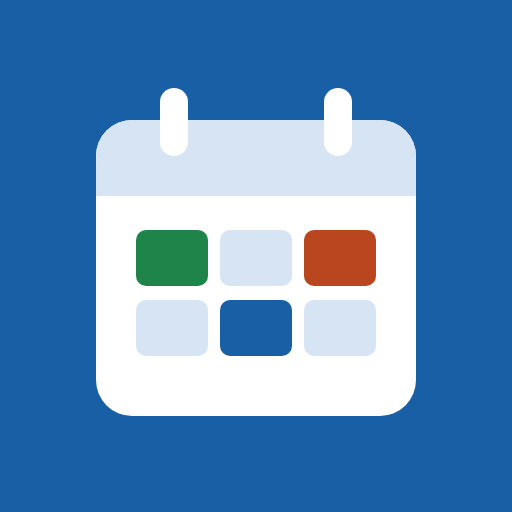
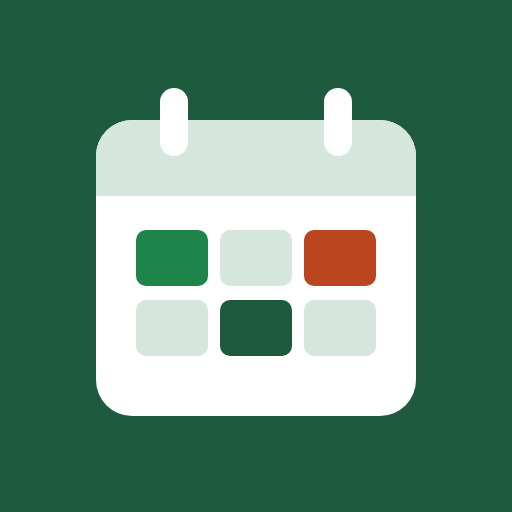
Use the academy's dark green as the brand colour
Title, buttons, active step, links, notice and app icon/theme colour
switch from blue to the academy logo's dark green. Saturday stays blue
as on a calendar. Service worker cache bumped.

Claude-Session: https://claude.ai/code/session_016v6XJEFw5Af7iAS2gFNXmS

diff --git a/index.html b/index.html
@@ -24,8 +24,9 @@
   --ink: #1E2A33;
   --ink-soft: #54616B;
   --ink-faint: #8A959C;
-  --blue: #1F4FB8;
-  --blue-wash: #E8EEFA;
+  --brand: #1E5A3E;   /* academy logo dark green */
+  --brand-wash: #E5EFE9;
+  --sat: #2C63D6;
   --red: #CC3227;
   --red-wash: #FBEAE8;
   --green: #1B8653;
@@ -38,11 +39,11 @@
 * { box-sizing: border-box; margin: 0; padding: 0; }
 body { font-family: var(--sans); font-size: 14.5px; line-height: 1.6; background: var(--page); color: var(--ink); min-height: 100vh; padding: 28px 16px 48px; -webkit-font-smoothing: antialiased; }
 .app { max-width: 1000px; margin: 0 auto; }
-:focus-visible { outline: 3px solid var(--blue); outline-offset: 2px; }
+:focus-visible { outline: 3px solid var(--brand); outline-offset: 2px; }
 
 /* header */
 .masthead { display: flex; align-items: flex-end; justify-content: space-between; gap: 16px; flex-wrap: wrap; margin-bottom: 18px; }
-h1 { font-family: var(--hand); font-weight: 400; font-size: 46px; line-height: 1; color: var(--blue); letter-spacing: -0.5px; }
+h1 { font-family: var(--hand); font-weight: 400; font-size: 46px; line-height: 1; color: var(--brand); letter-spacing: -0.5px; }
 .subtitle { max-width: 34em; font-size: 14px; color: var(--ink-soft); margin-top: 8px; }
 
 /* steps: the four tabs really are a sequence */
@@ -51,7 +52,7 @@ h1 { font-family: var(--hand); font-weight: 400; font-size: 46px; line-height: 1
 .tab-btn:hover { color: var(--ink); background: #F5F7F6; }
 .tab-btn.active { background: var(--board); color: var(--ink); font-weight: 600; padding-bottom: 10px; }
 .tab-btn .step { display: inline-grid; place-items: center; width: 22px; height: 22px; border-radius: 50%; font-size: 12px; font-weight: 700; color: #fff; background: var(--frame-dark); }
-.tab-btn.active .step { background: var(--blue); }
+.tab-btn.active .step { background: var(--brand); }
 
 /* the board */
 .board { background: var(--board); border: 2px solid var(--frame); border-radius: 12px; box-shadow: inset 0 0 0 6px #F1F4F2, 0 1px 0 #fff; padding: 8px 28px 28px; }
@@ -63,17 +64,17 @@ h1 { font-family: var(--hand); font-weight: 400; font-size: 46px; line-height: 1
 .card h2 { font-family: var(--hand); font-weight: 400; font-size: 30px; line-height: 1.1; color: var(--ink); margin-bottom: 10px; }
 .card h3 { font-size: 13.5px; font-weight: 600; margin: 16px 0 6px; color: var(--ink); }
 .hint { font-size: 13px; color: var(--ink-soft); line-height: 1.7; margin-bottom: 12px; max-width: 72ch; }
-.hint code, .mono { font-family: var(--sans); font-weight: 500; background: var(--blue-wash); color: var(--blue); padding: 1px 6px; border-radius: 4px; white-space: nowrap; }
+.hint code, .mono { font-family: var(--sans); font-weight: 500; background: var(--brand-wash); color: var(--brand); padding: 1px 6px; border-radius: 4px; white-space: nowrap; }
 
 label { font-size: 13px; font-weight: 500; color: var(--ink-soft); }
 input[type=text], input[type=number], input[type=time], select, textarea { font: inherit; font-size: 14px; border: 1.5px solid #D3DADC; border-radius: 6px; padding: 7px 10px; background: #fff; color: var(--ink); }
-input:focus, select:focus, textarea:focus { outline: none; border-color: var(--blue); box-shadow: 0 0 0 3px var(--blue-wash); }
+input:focus, select:focus, textarea:focus { outline: none; border-color: var(--brand); box-shadow: 0 0 0 3px var(--brand-wash); }
 textarea { width: 100%; resize: vertical; line-height: 1.7; font-size: 14px; }
 
 .btn { font: inherit; font-size: 13.5px; font-weight: 500; border: 1.5px solid #CBD2D5; background: #fff; color: var(--ink); border-radius: 6px; padding: 7px 14px; cursor: pointer; }
 .btn:hover { border-color: var(--ink-soft); }
-.btn.primary { background: var(--blue); border-color: var(--blue); color: #fff; font-weight: 600; }
-.btn.primary:hover { background: #193f94; border-color: #193f94; }
+.btn.primary { background: var(--brand); border-color: var(--brand); color: #fff; font-weight: 600; }
+.btn.primary:hover { background: #154430; border-color: #154430; }
 .btn.danger { color: var(--red); }
 .btn.danger:hover { border-color: var(--red); }
 .btn.small { font-size: 12.5px; padding: 3px 9px; }
@@ -95,14 +96,14 @@ table.simple input[type=text] { width: 100%; }
 .student .head input.school { width: 150px; }
 .student .head .spacer { flex: 1; }
 .chips { display: flex; flex-wrap: wrap; gap: 6px; margin-top: 8px; }
-.chip { font-size: 12.5px; padding: 2px 9px; border-radius: 4px; background: var(--blue-wash); color: var(--blue); }
+.chip { font-size: 12.5px; padding: 2px 9px; border-radius: 4px; background: var(--brand-wash); color: var(--brand); }
 .chip.err { background: var(--red-wash); color: var(--red); }
 .chip.muted { background: #F0F2F1; color: var(--ink-soft); }
 /* round magnet used as the school marker everywhere */
 .dot { display: inline-block; width: 12px; height: 12px; border-radius: 50%; margin-right: 6px; vertical-align: -1px; box-shadow: inset 0 -2px 0 rgba(0,0,0,0.22), inset 0 2px 0 rgba(255,255,255,0.35); }
 
 .empty-note { font-size: 14px; color: var(--ink-soft); padding: 28px 0; text-align: center; }
-.badge { display: inline-block; font-size: 12px; font-weight: 600; padding: 0 7px; border-radius: 4px; background: var(--blue-wash); color: var(--blue); margin-left: 4px; }
+.badge { display: inline-block; font-size: 12px; font-weight: 600; padding: 0 7px; border-radius: 4px; background: var(--brand-wash); color: var(--brand); margin-left: 4px; }
 .badge.ok { background: var(--green-wash); color: var(--green); }
 .badge.warn { background: var(--amber-wash); color: var(--amber); }
 .badge.bad { background: var(--red-wash); color: var(--red); }
@@ -119,7 +120,7 @@ table.simple input[type=text] { width: 100%; }
 .miss { color: var(--red); font-weight: 500; }
 .reason { color: var(--ink-faint); font-size: 12.5px; }
 details { margin-top: 10px; }
-details summary { cursor: pointer; font-size: 13.5px; font-weight: 500; color: var(--blue); padding: 4px 0; }
+details summary { cursor: pointer; font-size: 13.5px; font-weight: 500; color: var(--brand); padding: 4px 0; }
 .alt-list { margin-top: 6px; }
 .alt { display: flex; gap: 10px; align-items: center; font-size: 13.5px; padding: 6px 0; flex-wrap: wrap; border-bottom: 1px solid #F0F3F1; }
 .alt .when { min-width: 160px; font-weight: 500; font-variant-numeric: tabular-nums; }
@@ -128,7 +129,7 @@ details summary { cursor: pointer; font-size: 13.5px; font-weight: 500; color: v
 .week-wrap { overflow-x: auto; padding-bottom: 12px; }
 .week { display: grid; grid-template-columns: 52px repeat(7, minmax(96px, 1fr)); min-width: 740px; background: #fff; }
 .week .dayhead { text-align: center; font-family: var(--hand); font-size: 26px; line-height: 1; padding: 6px 0 8px; color: var(--ink); border-bottom: 2px solid var(--ink); }
-.week .dayhead:nth-child(7) { color: var(--blue); }
+.week .dayhead:nth-child(7) { color: var(--sat); }
 .week .dayhead:nth-child(8) { color: var(--red); }
 .week .col { position: relative; border-left: 1px solid var(--rule); }
 .week .col.closed { background: repeating-linear-gradient(-45deg, #F6F8F7 0 5px, #EDF1EF 5px 6px); }
@@ -154,7 +155,7 @@ details summary { cursor: pointer; font-size: 13.5px; font-weight: 500; color: v
 .install-bar { display: none; align-items: center; gap: 10px; flex-wrap: wrap; background: var(--board); border: 1.5px solid var(--frame); border-radius: 8px; padding: 10px 14px; font-size: 13.5px; color: var(--ink); margin-bottom: 18px; }
 .install-bar.show { display: flex; }
 .install-bar .spacer { flex: 1; }
-.notice { border-left: 4px solid var(--blue); background: var(--blue-wash); color: var(--ink); border-radius: 0 6px 6px 0; padding: 12px 16px; font-size: 14px; line-height: 1.7; margin: 20px 0 4px; }
+.notice { border-left: 4px solid var(--brand); background: var(--brand-wash); color: var(--ink); border-radius: 0 6px 6px 0; padding: 12px 16px; font-size: 14px; line-height: 1.7; margin: 20px 0 4px; }
 
 @media (max-width: 640px) {
   body { padding: 20px 12px 40px; }

diff --git a/sw.js b/sw.js
@@ -1,5 +1,5 @@
 // Offline support: serve the app from cache, refresh it in the background.
-const CACHE = 'exam-schedule-v2';
+const CACHE = 'exam-schedule-v3';
 const FILES = ['./', './index.html', './manifest.webmanifest', './icons/icon-192.png', './icons/icon-512.png', './icons/icon-180.png'];
 
 self.addEventListener('install', e => {
